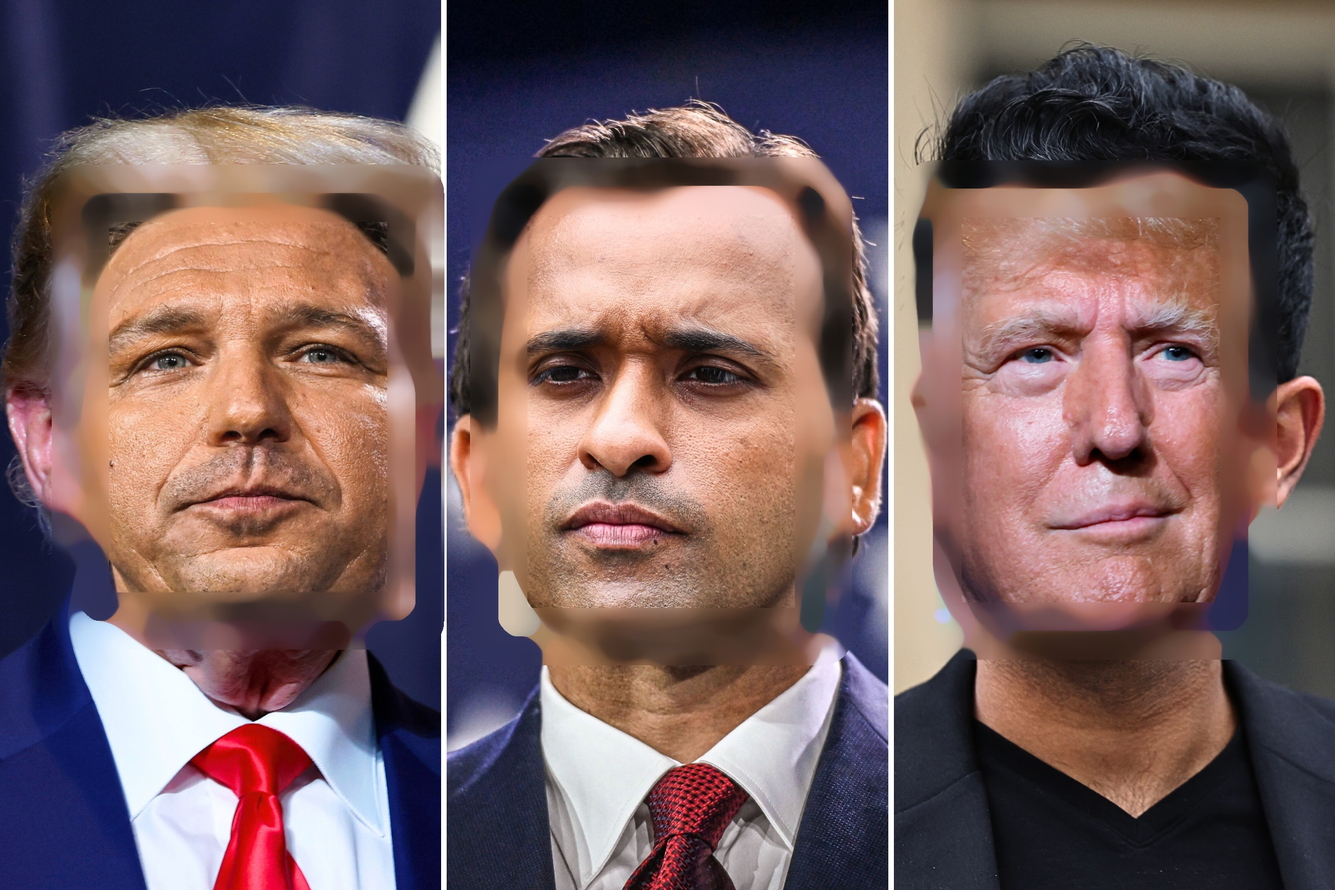
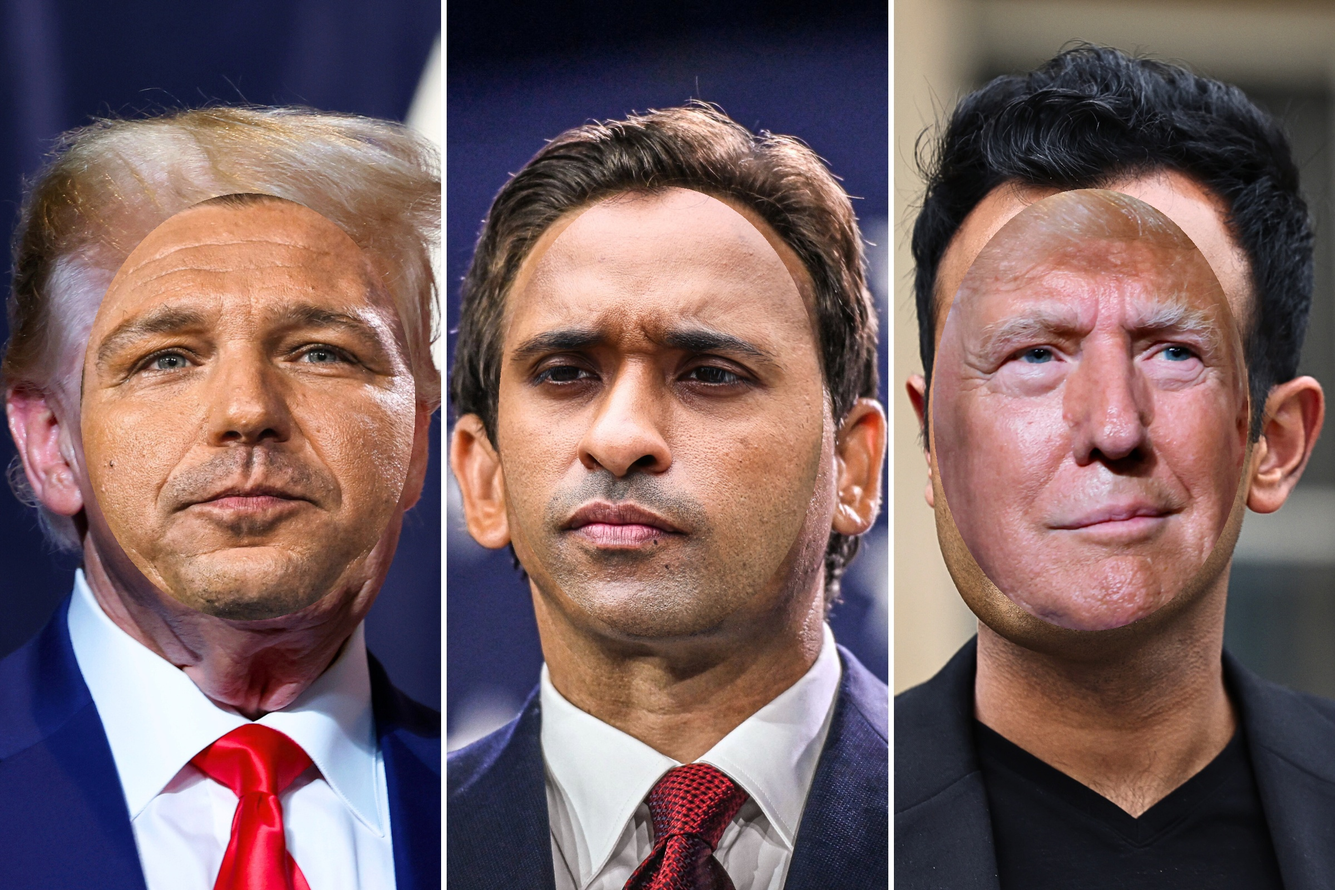
Post Retreat: Lab 1: Working on oval cutouts

diff --git a/Lab1/main.py b/Lab1/main.py
@@ -117,17 +117,23 @@ def swap_faces(original_image, output_image, faces, oval):
             face_resized = cv2.resize(face_crop, (next_face.w, next_face.h))
 
             if oval:
-                oval_mask = np.zeros(output_image.shape[:2], np.uint8)
-                cv2.ellipse(oval_mask, (int(next_face.center_x), int(next_face.center_y)), (int(next_face.w / 2), int(next_face.h / 2)), 0, 0, 360, (255, 255, 255), -1)
-                # TODO:
+                # oval_mask = np.zeros(output_image.shape[:2], np.uint8)
+                # cv2.ellipse(oval_mask, (int(next_face.center_x), int(next_face.center_y)), (int(next_face.w / 2), int(next_face.h / 2)), 0, 0, 360, (255, 255, 255), -1)
+                # # TODO:
+
+                # cv2.imshow("oval_mask", oval_mask)
+
+                # oval_face = np.zeros(output_image.shape[:2], np.uint8)
+
+                oval_mask = np.zeros(face_resized.shape[:2], np.uint8)
+                cv2.ellipse(oval_mask, (int(next_face.w / 2), int(next_face.h / 2)), (int(next_face.w / 2), int(next_face.h / 2)), 0, 0, 360, (255, 255, 255), -1)
+                face_resized = cv2.bitwise_and(face_resized, face_resized, mask=oval_mask)
+
+                output_image[next_face.y:next_face.y+next_face.h, next_face.x:next_face.x+next_face.w] = combine_with_mask(output_image[next_face.y:next_face.y+next_face.h, next_face.x:next_face.x+next_face.w], face_resized, oval_mask)
             else:
                 output_image[next_face.y:next_face.y+next_face.h, next_face.x:next_face.x+next_face.w] = face_resized
 
 
-            # oval_mask = np.zeros(face_resized.shape[:2], np.uint8)
-            # cv2.ellipse(oval_mask, (int(next_face.w / 2), int(next_face.h / 2)), (int(next_face.w / 2), int(next_face.h / 2)), 0, 0, 360, (255, 255, 255), -1)
-
-            # face_resized = cv2.bitwise_and(face_resized, face_resized, mask=oval_mask)
 
             # Grapcut 2
             # mask = np.zeros(face_resized.shape[:2], np.uint8)
